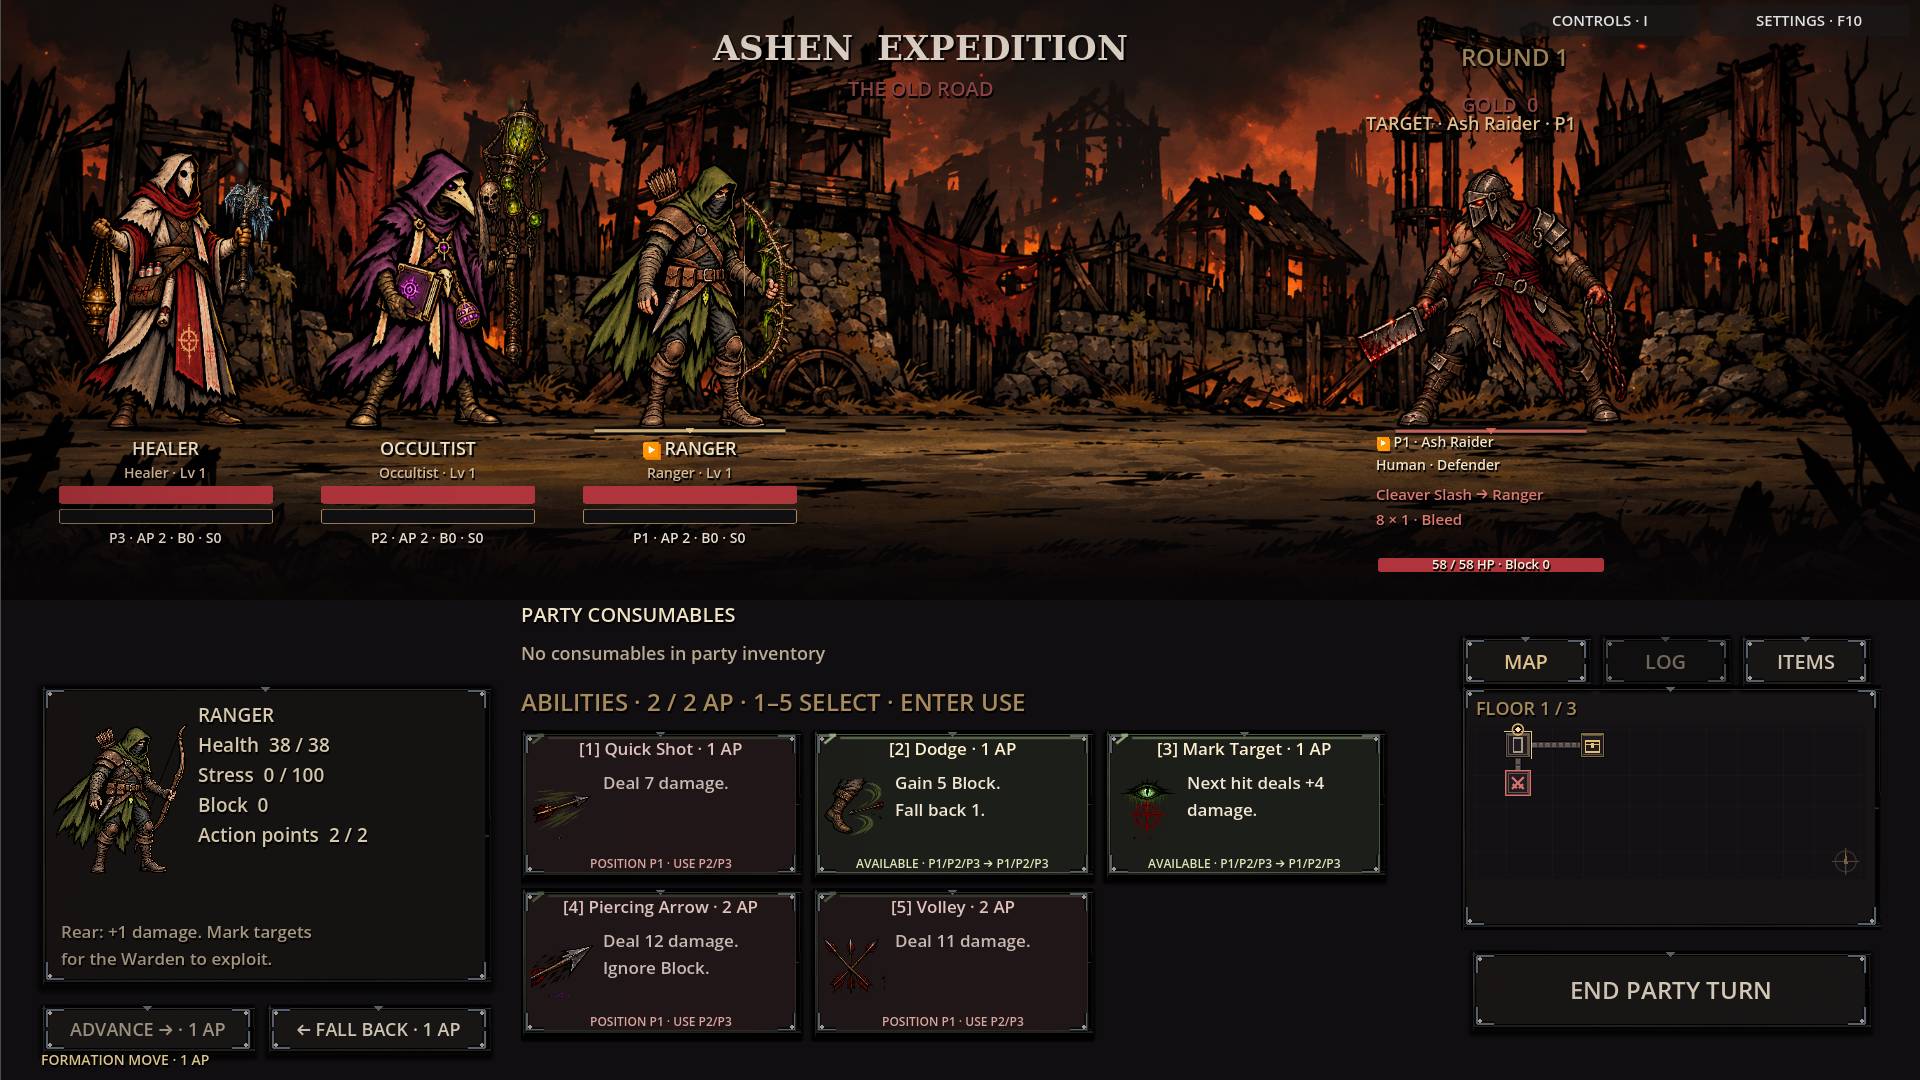
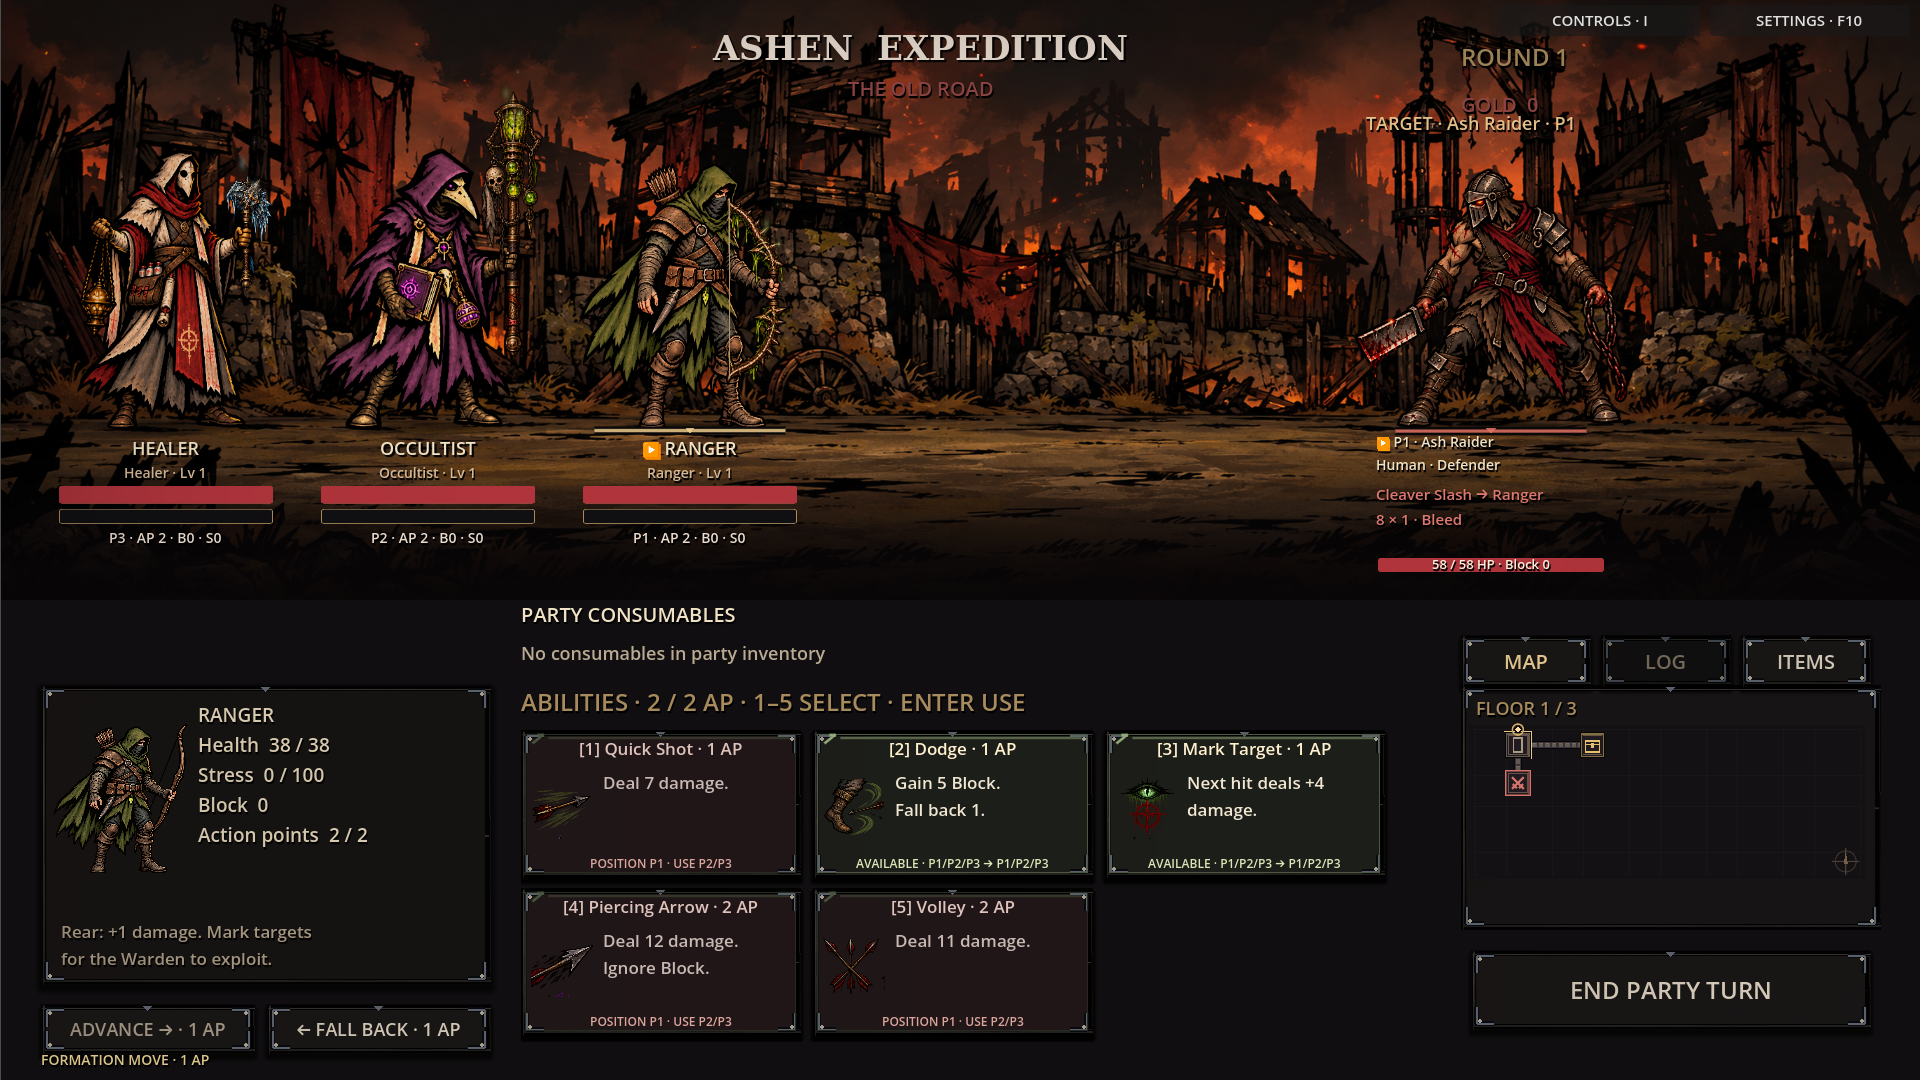
Correct weapon shafts and bow grip geometry

diff --git a/docs/party_combat_weapons/README.md b/docs/party_combat_weapons/README.md
@@ -11,6 +11,21 @@ the Occultist and Healer retain slim builds. The Crusader keeps his current desi
 
 These galleries arrange the live combat layers for inspection.
 
+## Grip and shaft corrections
+
+The weapon atlases were revised after close-up review exposed misplaced bow
+pivots and crooked staff shafts. Every staff/mace now has a continuous straight
+shaft and a clear wrapped grip. Bow limbs retain their natural curve, with a
+straight central gripping section. Pivots are measured on opaque handle pixels.
+Arrows run level above the holding fingers; drawing fingertips overlay the nock
+and string. The unchanged body art and selected armour remain in use.
+
+[![Previous bow grips](grips-before.png)](grips-before.png)
+[![Corrected bow grips](grips-after.png)](grips-after.png)
+
+These enlarged crops are rendered from the actual model, including all three
+Ranger outfits in idle and attack poses.
+
 | Hero | Weapon | Intrinsic smoke and pixel sparkles |
 | --- | --- | --- |
 | Ranger | Hunting Bow | None |
@@ -71,8 +86,11 @@ Full prompts/references: [generation-prompts.json](generation-prompts.json).
 Source hashes: [art-provenance.json](art-provenance.json).
 `profiles.json` records regions and attachment points without modifying PNGs.
 
-Validation: 94 headless smoke checks and native `attack_profiles_smoke.gd`.
+Validation: 95 headless smoke checks and native `attack_profiles_smoke.gd`.
 Additionally, native `party_weapon_art_visual.gd` checks all 72 combinations
 (three classes × three outfits × four weapons × two poses) for complete silhouettes,
 headroom, grounding and attached grips. The integration test covers named gear,
 armour selection, effects, unequip, queued snapshots and consistent attack size.
+`party_weapon_grips_smoke.gd` verifies opaque grips, continuous shaft axes and
+level nocked arrows above the holding fingers. Source revisions and original
+generations are both recorded in the prompt provenance.
